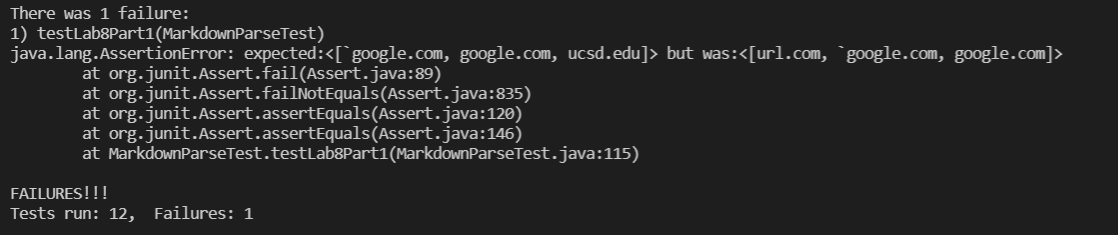
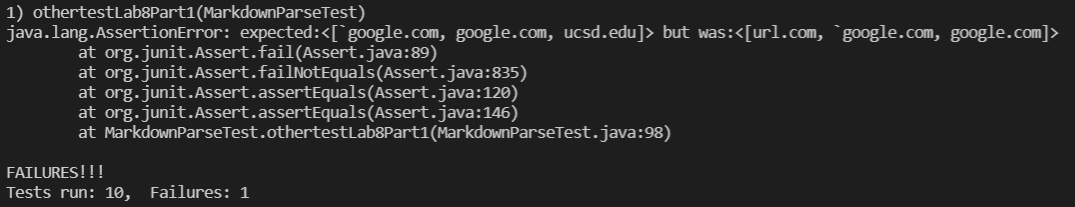
update for lab8

Changed region(s): [[0.0, 0.1159, 0.9823, 0.6957], [0.0, 0.7826, 0.2456, 0.9565], [0.0, 0.029, 0.3377, 0.087]]

diff --git a/lab-report-4-week-8.md b/lab-report-4-week-8.md
@@ -5,6 +5,9 @@
 [Link to the markdown-parse repository I reviewed](https://github.com/ezhou413/markdown-parse)
 
 
+**I decide what the snippets should produce by VScode preview**
+
+>(For the tests of both implementations are the same even the names of the test are different in the screenshots just because to show that the test cases are used in different implementations)
 ## Snippet 1
 
 What it should produce:
@@ -53,7 +56,7 @@ It didn't pass the test.
 
 What it should produce:
 
-```[https://ucsd-cse15l-w22.github.io/]```
+```[https://www.twitter.com, https://ucsd-cse15l-w22.github.io/, https://cse.ucsd.edu/]```
 
 **How I turned it into a test:**
 
@@ -70,3 +73,18 @@ It didn't pass the test.
 ![Image](Photo/lab4screenshot9.png)
 
 It didn't pass the test.
+
+## Test
+
+
+> **Q1:** Do you think there is a small (<10 lines) code change that will make your program work for snippet 1 and all related cases that use inline code with backticks? If yes, describe the code change. If not, describe why it would be a more involved change.
+>
+>**A:** I think that a small code change is possible to make my program work for snippet 1 and all related cases. As for my output there is `` `google.com`` and `google.com` an extra `url.com` but not `ucsd.edu` instead. The code change will be checking the backticks in the file as well that they have be within the brackets to be considered as links.
+
+> **Q2:** Do you think there is a small (<10 lines) code change that will make your program work for snippet 2 and all related cases that nest parentheses, brackets, and escaped brackets? If yes, describe the code change. If not, describe why it would be a more involved change.
+>
+>**A:** I think that it would be a more involved change to make my program work for snippet 2 and all related cases. It is because my program will first have to check the total number of brackets and parentheses in the string in order to know if they are valid or not by checking if there are proper open and close brackets or parentheses as pairs. Also, for the escaped brackets part, the `\` and the character following it will have to be considered as escaped characters just like `!` for the images.
+
+>**Q3:**  Do you think there is a small (<10 lines) code change that will make your program work for snippet 3 and all related cases that have newlines in brackets and parentheses? If yes, describe the code change. If not, describe why it would be a more involved change.
+>
+>**A:** I think that it would be a more involved change to make my program work for snippet 2 and all related cases. It is because my program will have to check newlines between the opening brackets and closing brackets and also between the opening parenthesis and closing parenthesis. It also needs to implement the change for checking the pairs of brackets and parentheses same as above to make sure it is valid.
